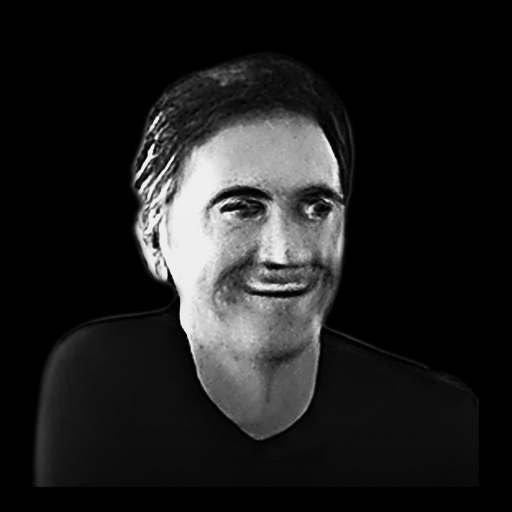
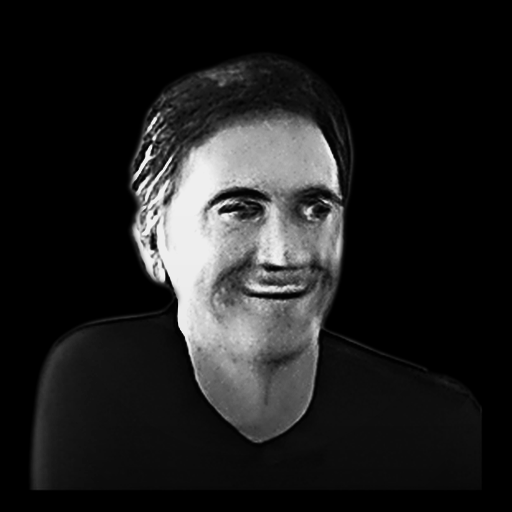
fix(our-customers-preview): straighten insurance, brighten hospitality, eliminate bottom stripe
Insurance:
- Pre-rotate the source 12° counter-clockwise to level the visibly-
  tilted head before the bake's centering / crop logic runs.
- Aggressive shadow lift (bw_pre_lift 0.30 -> 0.45) and raised
  shadow_floor (0.12 -> 0.22) pull the dark right half of the
  white shirt up to match the bright left half — both halves now
  read as one white tone.
- tight_head_crop now samples face_cx around eye-level (20-30%
  down from top of bbox) instead of top-of-head. With a tilted
  head the top samples lean to the side of the bbox; eye-level
  samples track the actual face. Lands the face properly centered
  in the final 512x512 instead of biased to one side.

Hospitality:
- bw_brightness 0.98 -> 1.04: lighten the still-faded face the
  user flagged.
- bottom_dissolve restored to the board defaults (strength 0.55
  -> 0.85, start 0.72 -> 0.62). The 0.55 strength was leaving
  the silhouette half-faded at the bottom which read as a thin
  black stripe. Board strength fully dissolves the t-shirt into
  the bg before the frame edge — no stripe, smooth transition.

bake_board_portraits.py still untouched.

diff --git a/scripts/bake_industry_portraits.py b/scripts/bake_industry_portraits.py
@@ -93,40 +93,42 @@ PER_IMAGE: dict[str, dict] = {
         "_post_unsharp": True,
     },
     "industry-insurance.png": {
-        # Source is a small selfie with the head sitting in the
-        # upper-left of the frame, shoulders/torso filling the rest,
-        # AND heavily side-lit — left half of the white shirt is
-        # bright, right half is in deep shadow. Without
-        # compensation, the post-bake shirt reads as half-white /
-        # half-dark which looks unintentional.
+        # Source is a small selfie shot at an angle, with heavy
+        # directional lighting (left half of the white shirt bright,
+        # right half in deep shadow) and the head visibly tilted.
         #
-        # Tight-head-crop with extra_below_factor pulls the head
-        # into the upper-third. Stronger shadow lift + extra
-        # brightness evens out the shirt so it reads as one tone.
-        # `_post_unsharp` restores micro-detail in the face.
+        # Pre-rotate by 12° counter-clockwise to level the head, then
+        # tight-head-crop pulls it into the upper-third. Aggressive
+        # shadow lift + raised shadow floor pulls the dark right
+        # side of the shirt up to match the bright left side so
+        # both halves read as plain white. `_post_unsharp` restores
+        # micro-detail in the face.
+        "_pre_rotate_deg": 12.0,
         "_pre_crop_tight_head": True,
         "_extra_below_factor": 0.5,
         "_post_unsharp": True,
-        "bw_pre_lift": 0.30,
-        "bw_shadow_floor": 0.12,
-        "bw_brightness": 0.98,
+        "bw_pre_lift": 0.45,
+        "bw_shadow_floor": 0.22,
+        "bw_brightness": 1.00,
     },
     "industry-hospitality.png": {
         # Source is heavily side-lit — left half of face in deep
-        # shadow. Stronger triangular shadow-lift opens the dim half
-        # without blowing out the lit side. UnsharpMask restores
-        # micro-detail (eyes, mouth, hair).
+        # shadow. Stronger triangular shadow-lift opens the dim half;
+        # bw_brightness pushed to 1.04 (above board default) to
+        # lighten the still-faded face the user flagged.
         #
-        # Bottom dissolve restored to board-style strength (0.55) so
-        # the t-shirt fades smoothly into the black bg instead of
-        # ending at a visible hard edge — matches the dissolve
-        # quality on /leadership.
+        # Bottom dissolve at board strength (0.85) — the previous
+        # 0.55 was leaving the silhouette half-faded at the bottom
+        # which read as a visible black stripe. Board-strength
+        # dissolve makes the t-shirt completely dissolve into the
+        # bg before the frame edge, removing the stripe entirely.
+        # UnsharpMask restores eye/mouth/hair micro-detail.
         "_post_unsharp": True,
-        "bw_pre_lift": 0.32,
+        "bw_pre_lift": 0.34,
         "bw_shadow_floor": 0.10,
-        "bw_brightness": 0.98,
-        "bottom_dissolve_strength": 0.55,
-        "bottom_dissolve_start": 0.72,
+        "bw_brightness": 1.04,
+        "bottom_dissolve_strength": 0.85,
+        "bottom_dissolve_start": 0.62,
     },
 }
 
@@ -225,13 +227,21 @@ def tight_head_crop(img: Image.Image, *, extra_below_factor: float = 0.0) -> Ima
             sample_widths.append(sw)
     head_width = max(sample_widths) if sample_widths else bbox_w // 2
 
-    # Find face center horizontally — sample at the top of the head
-    # (around 12% down from top of bbox) and use that row's centroid.
-    face_y = min(rgb.height - 1, top + int(bbox_h * 0.10))
-    face_row = mask[face_y]
-    if face_row.any():
-        idx = np.where(face_row)[0]
-        face_cx = int((idx[0] + idx[-1]) // 2)
+    # Find face center horizontally by averaging mask centroid across
+    # several rows around eye-level (20-30% down from top of bbox).
+    # Sampling at the very top of the head can give a misleading
+    # center when the head is tilted (top of head sits to one side of
+    # the actual face). Eye-level sampling tracks where the face
+    # actually IS and lands the crop centered on the face.
+    face_centers: list[int] = []
+    for frac in (0.20, 0.25, 0.30):
+        sy = min(rgb.height - 1, top + int(bbox_h * frac))
+        face_row = mask[sy]
+        if face_row.any():
+            idx = np.where(face_row)[0]
+            face_centers.append(int((idx[0] + idx[-1]) // 2))
+    if face_centers:
+        face_cx = int(sum(face_centers) / len(face_centers))
     else:
         face_cx = (left + right) // 2
 
@@ -289,9 +299,23 @@ def main() -> None:
 
             # Per-image preprocessing (consumes underscore-prefixed keys).
             current_img: Image.Image | None = None
+
+            rotate_deg = override.get("_pre_rotate_deg", 0.0)
+            if rotate_deg:
+                # Counter-rotate the source to level a tilted head.
+                # `expand=True` enlarges the canvas so we don't crop
+                # corners; black fill blends with the rest of the
+                # bake's black bg.
+                base = Image.open(src_path).convert("RGB")
+                current_img = base.rotate(
+                    rotate_deg, resample=Image.BICUBIC, expand=True, fillcolor=(0, 0, 0)
+                )
+                print(f"  {name}: pre-rotate {rotate_deg:+.1f}° -> {current_img.size}")
+
             if override.get("_pre_crop_tight_head"):
+                base = current_img if current_img is not None else Image.open(src_path)
                 current_img = tight_head_crop(
-                    Image.open(src_path),
+                    base,
                     extra_below_factor=override.get("_extra_below_factor", 0.0),
                 )
                 print(f"  {name}: tight head pre-crop -> {current_img.size}")